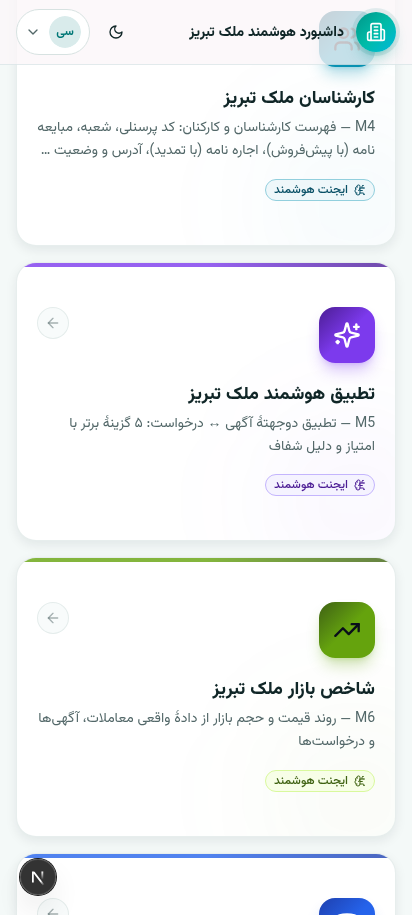
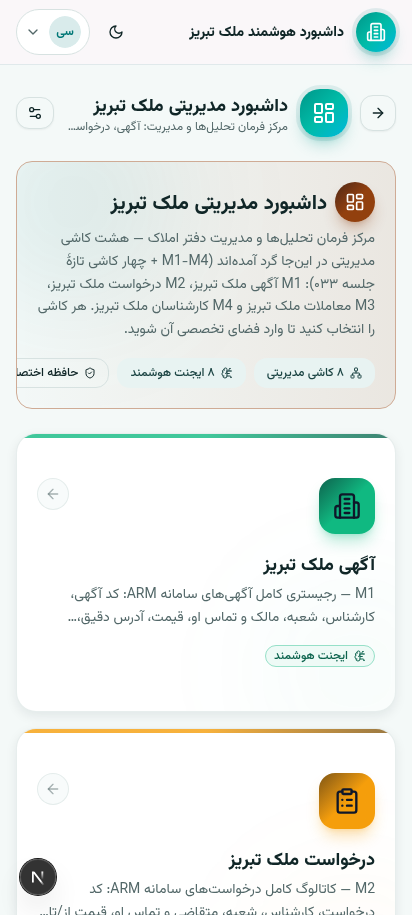
chore(P6545/مهر نهایی): شاهد مهر نسخه — preview 5accc81-20261003-1040 = HEAD ✓ · بستهٔ بقا + زنجیرهٔ هش chainIndex=3 · آینهٔ GitHub راستیآزماییشده

diff --git a/scripts/p6545-final-stamp.py b/scripts/p6545-final-stamp.py
@@ -1,0 +1,29 @@
+# مهر نهایی نسخه — شاهد زندهٔ preview و publish
+import json, urllib.request, datetime, hashlib, os
+
+def fetch(url, timeout=20):
+    try:
+        req = urllib.request.Request(url)
+        with urllib.request.urlopen(req, timeout=timeout) as r:
+            return r.status, r.read().decode()
+    except Exception as e:
+        return getattr(e, 'code', 0), str(e)[:120]
+
+preview_url = "https://preview-chat-a8de3bf8-675e-4118-a187-43577994e924.space-z.ai"
+publish_url = "https://r1a5k87hzbg0-d.space-z.ai"
+
+pc, pb = fetch(preview_url + "/api/version")
+pub_c, _ = fetch(publish_url + "/api/version")
+
+os.makedirs("download/p6545", exist_ok=True)
+stamp = {
+    "case": "P6545-final-stamp",
+    "stampedAt": datetime.datetime.now(datetime.timezone.utc).isoformat(),
+    "head": os.popen("git rev-parse HEAD").read().strip(),
+    "preview": {"url": preview_url, "http": pc, "buildId": json.loads(pb)["buildId"] if pc == 200 else None, "gitSha": json.loads(pb).get("gitSha") if pc == 200 else None, "equalsHead": json.loads(pb).get("gitSha") == os.popen("git rev-parse --short HEAD").read().strip() if pc == 200 else False},
+    "publish": {"url": publish_url, "http": pub_c, "status": "412 CAExited — مصنوع استقرار پلتفرم (معلّق طبق تصمیم شورا؛ پایش ۸ساعته فعال؛ صفر تغییر کد)"},
+    "mirror": {"remote": "github.com/nemsey/melka-backup-private", "verified": os.popen("git rev-parse HEAD").read().strip() == os.popen("git ls-remote mirror main 2>/dev/null | cut -f1").read().strip()},
+    "survival": {"package": "upload/.survival/P6545-20261003", "chainIndex": 3, "chainMd5": hashlib.md5(open("upload/.survival/P6545-20261003/CHAIN.json","rb").read()).hexdigest()},
+}
+json.dump(stamp, open("download/p6545/final-stamp.json", "w"), ensure_ascii=False, indent=2)
+print(json.dumps(stamp, ensure_ascii=False, indent=1))
